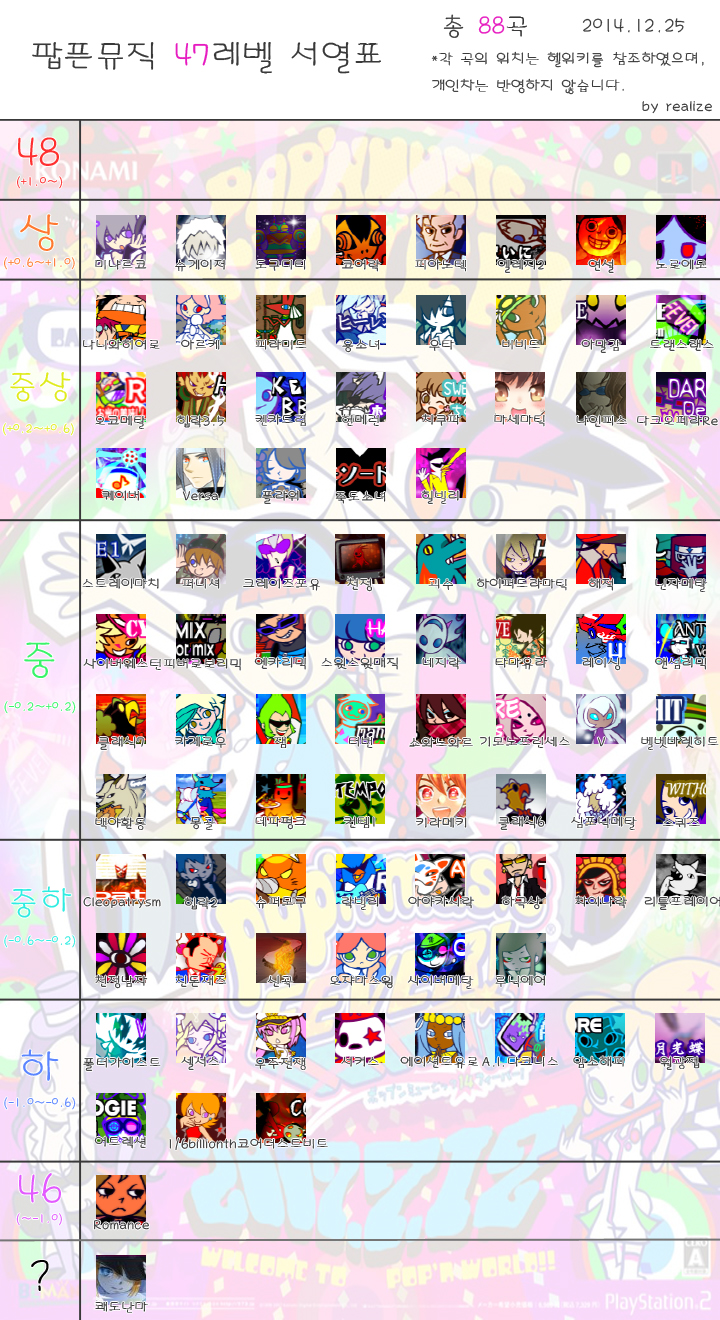
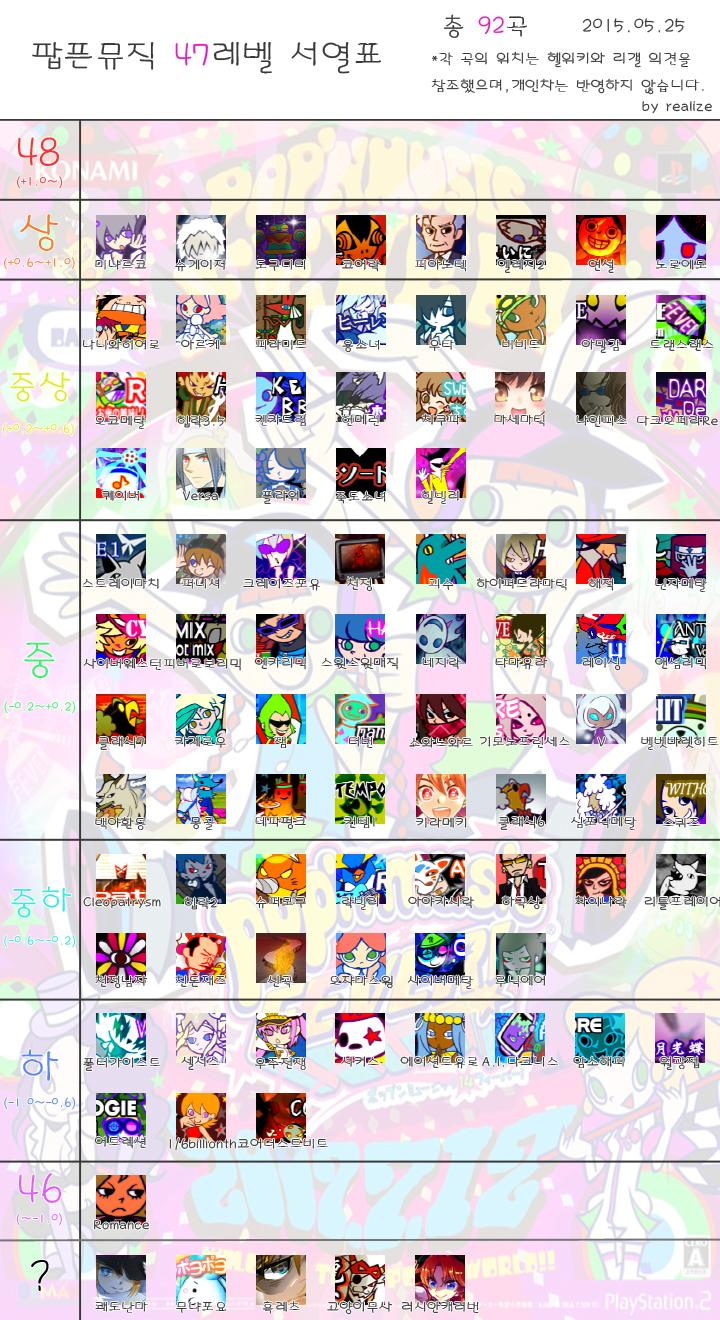
Update 47 level, some fix

diff --git a/js/position.js b/js/position.js
@@ -125,8 +125,12 @@ var song_position = {
 
     865911839:  [0, 12], // RomanceEX
 
-    554357215:  [0, 13]  // 彼女は快刀乱麻EX
-  },
+    554357215:  [0, 13], // 彼女は快刀乱麻EX
+    1708395143: [1, 13], // ムーニャポヨポヨスッポコニャーゴEX
+    1281216099: [2, 13], // 暴レ焔EX
+    1314585942: [3, 13], // 猫侍の逆襲EX
+    3975902536: [4, 13], // Russian Caravan RhapsodyEX
+},
   48: {
     455383983:  [0,  0], // 創世ノートEX
     1603274361: [1,  0], // 雪上断火EX
@@ -200,7 +204,7 @@ var song_position = {
     1489981950: [2,  9], // True BlueEX
     139352566:  [3,  9], // The Least 100 secEX
 
-    1032817123: [0, 10]  // ChronoxiaEX
+    1032817123: [0, 10], // ChronoxiaEX
   },
   49: {
     1360993087: [829, 117], // uenEX
@@ -226,6 +230,6 @@ var song_position = {
     3890933150: [789, 622], // GALAXY FOREST 11.6&12EX
     483406270:  [ 69, 623], // ブタパンチのテーマEX
     1720933628: [310, 666], // Eine Haube 〜聖地の果てにあるもの〜EX
-    1296684325: [590, 706]  // IXEX
+    1296684325: [590, 706], // IXEX
   }
 };

diff --git a/js/popn.js b/js/popn.js
@@ -9,7 +9,7 @@ $(function() {
 function goStep2() {
   var id = $(".i-id").val().trim();
   if(id === "") return;
-  $.getJSON("http://korsnack.kr/popn/proxy.php?id=" + id, onGetJSON);
+  $.getJSON("http://misc.korsnack.kr/popn/proxy.php?id=" + id, onGetJSON);
 }
 
 function onGetJSON(r) {

diff --git a/proxy.php b/proxy.php
@@ -1,7 +1,7 @@
 <?php
 
 $req = curl_init();
-curl_setopt($req, CURLOPT_URL, $url);
+curl_setopt($req, CURLOPT_URL, "http://popn.azu.kr/json/".$_GET["id"].".json");
 curl_setopt($req, CURLOPT_USERAGENT, "Mozilla/5.0 (Windows NT 6.2; WOW64) AppleWebKit/537.36 (KHTML, like Gecko) Chrome/33.0.1750.146");
 curl_setopt($req, CURLOPT_SSL_VERIFYPEER, false);
 curl_setopt($req, CURLOPT_SSLVERSION, 3);
